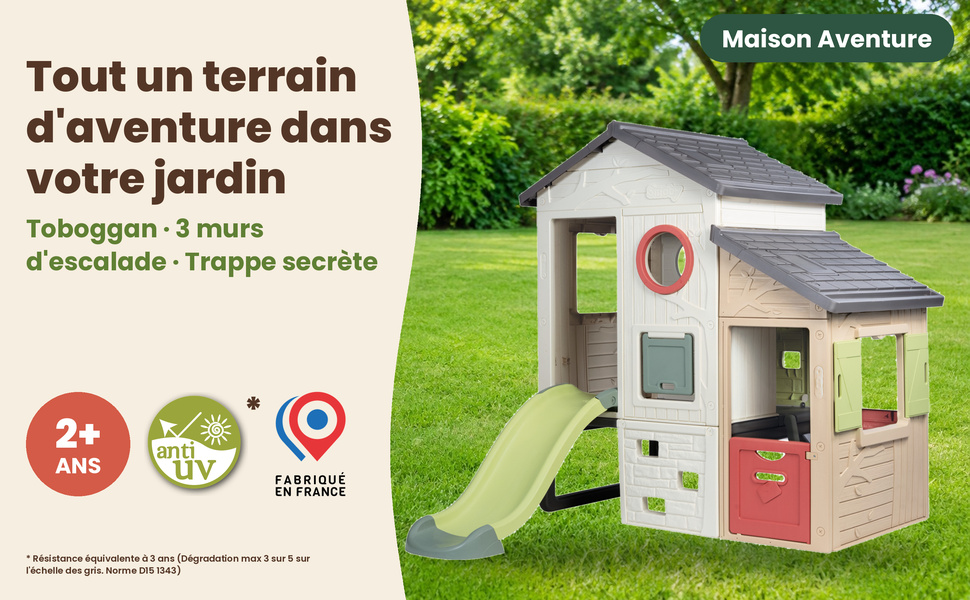
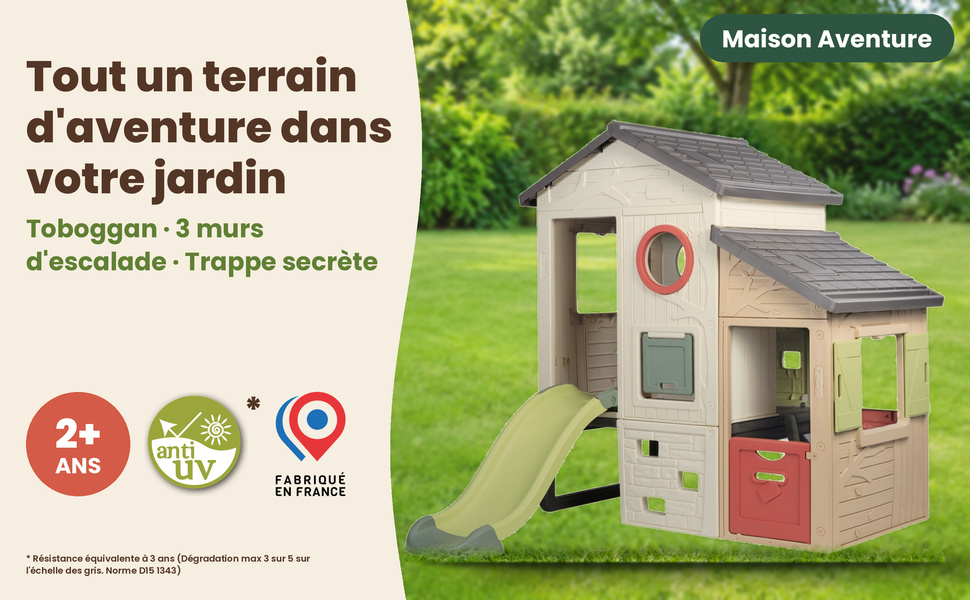
Hero Maison Aventure v2 : meilleure intégration du produit dans la scène
Claude-Session: https://claude.ai/code/session_01D96YY9CFJwroiWUzPHxQs7

diff --git a/tools/hero_build.py b/tools/hero_build.py
@@ -24,17 +24,44 @@ def main(spec_path):
     p = lambda f: f if os.path.isabs(f) else os.path.join(base, f)
     w, h = W * SS, H * SS
     img = cover(Image.open(p(sp['decor'])).convert('RGB'), w, h).convert('RGBA')
+    # profondeur : léger flou du décor (le produit reste net)
+    img = Image.alpha_composite(img.filter(ImageFilter.GaussianBlur(1.6 * SS)).convert('RGBA'), Image.new('RGBA', img.size, (255, 236, 200, 22)))
+    decor_sharp = cover(Image.open(p(sp['decor'])).convert('RGB'), w, h).convert('RGBA')
     # produit réel, proportions d'origine
     pk = trim(Image.open(p(sp['pack'])).convert('RGBA'))
     x0, y0, x1, y1 = [v * SS for v in sp.get('pack_box', [405, 62, 945, 560])]
     s = min((x1 - x0) / pk.width, (y1 - y0) / pk.height)
     pk = pk.resize((round(pk.width * s), round(pk.height * s)), Image.LANCZOS)
+    # contour adouci + éclairage chaud, contraste légèrement réduit pour se fondre dans la scène
+    al = pk.getchannel('A').filter(ImageFilter.GaussianBlur(0.7 * SS)); pk.putalpha(al)
+    import numpy as np
+    arr = np.array(pk).astype(float)
+    arr[..., :3] = (arr[..., :3] - 128) * 0.93 + 128
+    arr[..., 0] *= 1.02; arr[..., 1] *= 0.985; arr[..., 2] *= 0.93
+    gy = np.linspace(1.04, 0.90, arr.shape[0])[:, None]  # haut éclairé, bas plus sombre
+    arr[..., :3] *= gy[..., None]
+    pk = Image.fromarray(np.clip(arr, 0, 255).astype('uint8'), 'RGBA')
     px = x0 + ((x1 - x0) - pk.width) // 2; py = y1 - pk.height
-    # ombre de contact
+    # ombre portée (soleil en haut à gauche) + ombre de contact
     sh = Image.new('RGBA', img.size, (0, 0, 0, 0)); d = ImageDraw.Draw(sh)
-    d.ellipse((px + pk.width * 0.04, py + pk.height - 22 * SS, px + pk.width * 0.98, py + pk.height + 14 * SS), fill=(20, 30, 10, 110))
-    sh = sh.filter(ImageFilter.GaussianBlur(10 * SS)); img.alpha_composite(sh)
+    d.polygon([(px + pk.width * 0.05, py + pk.height - 6 * SS), (px + pk.width * 1.02, py + pk.height - 6 * SS),
+               (px + pk.width * 1.16, py + pk.height + 16 * SS), (px + pk.width * 0.20, py + pk.height + 22 * SS)], fill=(15, 28, 8, 120))
+    sh = sh.filter(ImageFilter.GaussianBlur(9 * SS)); img.alpha_composite(sh)
+    sh2 = Image.new('RGBA', img.size, (0, 0, 0, 0)); d = ImageDraw.Draw(sh2)
+    d.ellipse((px + pk.width * 0.03, py + pk.height - 8 * SS, px + pk.width * 1.0, py + pk.height + 9 * SS), fill=(10, 20, 5, 190))
+    img.alpha_composite(sh2.filter(ImageFilter.GaussianBlur(3.5 * SS)))
     img.alpha_composite(pk, (px, py))
+    # herbe devant la base du produit (touffes tirées du décor net)
+    rng = np.random.default_rng(7); band = 20 * SS; yb = py + pk.height
+    m = np.zeros((h, w), float)
+    cols = rng.random(w); cols = np.convolve(cols, np.ones(5 * SS) / (5 * SS), mode='same')
+    for xx in range(px, min(px + pk.width, w)):
+        hh = int(band * (0.25 + 1.1 * cols[xx]))
+        m[max(yb - hh, 0):yb + 2 * SS, xx] = np.linspace(0.0, 1.0, min(hh, yb) + 2 * SS)[:m[max(yb - hh, 0):yb + 2 * SS, xx].shape[0]]
+    m = np.array(Image.fromarray((m * 255).astype('uint8')).filter(ImageFilter.GaussianBlur(0.8 * SS))) / 255.0
+    grass = decor_sharp.copy(); gm = np.array(grass).astype(float)
+    gm[..., :3] *= 0.92; grass = Image.fromarray(np.clip(gm, 0, 255).astype('uint8'), 'RGBA')
+    grass.putalpha(Image.fromarray((m * 255).astype('uint8'))); img.alpha_composite(grass)
     # panneau crème, bord en vague
     pan = Image.new('RGBA', img.size, (0, 0, 0, 0)); d = ImageDraw.Draw(pan)
     import math
